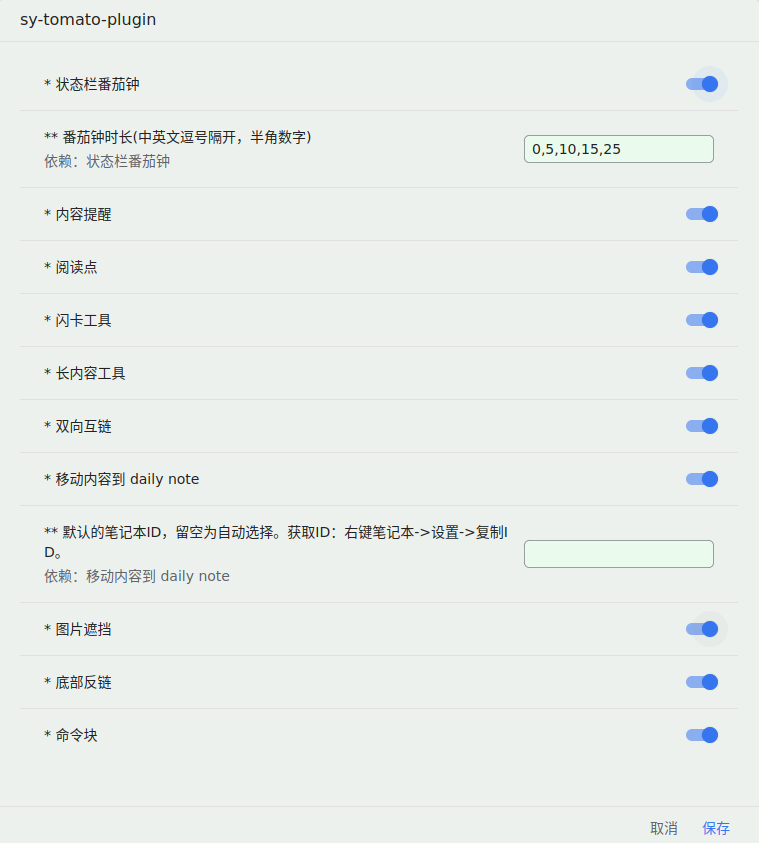
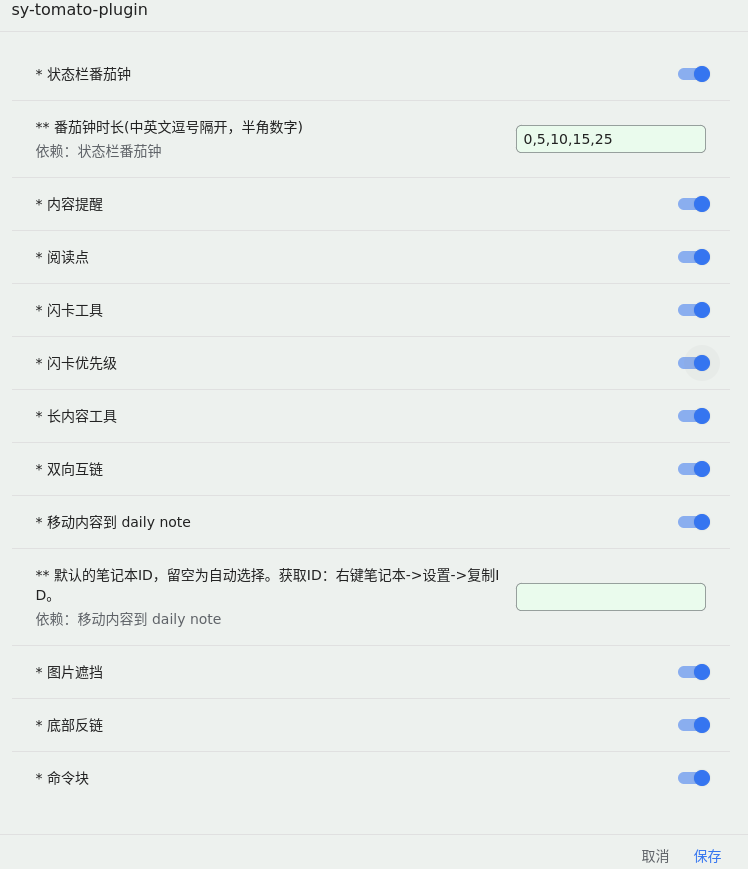
size

diff --git a/sy-tomato-plugin/README_zh_CN.md b/sy-tomato-plugin/README_zh_CN.md
@@ -10,7 +10,7 @@
 
 ![Alt text](assets/settings.png)
 
-<img src="assets/settingsDetail.png" alt="drawing" width="400"/>
+<img src="assets/settingsDetail.png" alt="drawing" width="600"/>
 
 > [反馈表单](https://awx9773btw.feishu.cn/share/base/form/shrcnO85H3V1iNvfEAc2JoQyXeh)
 
@@ -20,18 +20,32 @@
 
 *状态栏番茄钟*
 
-<img src="assets/statustomato.png" alt="drawing" width="400"/>
+<img src="assets/statustomato.png" alt="drawing" width="600"/>
 
 * **0**：取消倒计时
 * **5**：计时五分钟
 * ……
 * **25**：计时二十五分钟
 
-<img src="assets/tomatoTimeup.png" alt="drawing" width="400"/>
+<img src="assets/tomatoTimeup.png" alt="drawing" width="600"/>
 
 > 支持自定义时长。
 
 > 新本能查看剩余时间。
+
+## 闪卡优先级
+
+对闪卡设置优先级，级别高的优先复习。同级之间每次复习，都会打乱顺序。
+
+设置后，直接用`alt+0`复习即可。插件已在复习前，根据优先级对闪卡排序。
+
+优先级保存在闪卡的自定义属性`custom-card-priority`中。可手动调整。
+
+优先级范围 0 ~ 100，默认优先级为50，没设置过优先级的闪卡也默认为50.
+
+<img src="assets/cardPriorityMenu.png" alt="drawing" width="600"/>
+
+> 本功能默认关闭，请从配置中打开。
 
 ## 命令块
 
@@ -41,7 +55,7 @@
 
 将把左边的文档合并到右边：复制左边文档的内容、属性到右边，以及转移引用到右边。
 
-<img src="assets/mergeDocs.png" alt="drawing" width="400"/>
+<img src="assets/mergeDocs.png" alt="drawing" width="600"/>
 
 例如图中，`test1`的内容、属性被复制到`test2`，其他地方对`test1`的引用，将全部转移到`test2`，变成引用`test2`。
 
@@ -85,9 +99,9 @@
 
 快捷键：`Alt+/`
 
-<img src="assets/bilink.png" alt="drawing" width="400"/>
+<img src="assets/bilink.png" alt="drawing" width="600"/>
 
-<img src="assets/bilink-result.png" alt="drawing" width="400"/>
+<img src="assets/bilink-result.png" alt="drawing" width="600"/>
 
 > **提示** 可以多行选择，但需要使用快捷键：`Alt+/`。
 
@@ -97,19 +111,19 @@
 
 **光标定位好要选择的`内容块`**
 
-<img src="assets/cmdEntry.png" alt="drawing" width="400"/>
+<img src="assets/cmdEntry.png" alt="drawing" width="600"/>
 
 **使用右键菜单。也可以用快捷键 `Ctrl+3`。**
 
-<img src="assets/contentMenu.png" alt="drawing" width="400"/>
+<img src="assets/contentMenu.png" alt="drawing" width="600"/>
 
 **设置时间**
 
-<img src="assets/scheduleSetTime.png" alt="drawing" width="400"/>
+<img src="assets/scheduleSetTime.png" alt="drawing" width="600"/>
 
 *设置时间好，会自动加上一个时间tag。*
 
-<img src="assets/aftersettime.png" alt="drawing" width="400"/>
+<img src="assets/aftersettime.png" alt="drawing" width="600"/>
 
 *我们可以在tag面板查看已经计划中的提醒都有哪些。*
 
@@ -117,7 +131,7 @@
 
 **提醒**
 
-<img src="assets/remind.png" alt="drawing" width="400"/>
+<img src="assets/remind.png" alt="drawing" width="600"/>
 
 **删除时间tag**
 
@@ -129,11 +143,11 @@
 
 **光标定位好要选择的`内容块`，使用右键菜单，也可以直接 `Ctrl+2`。**
 
-<img src="assets/contentMenu.png" alt="drawing" width="400"/>
+<img src="assets/contentMenu.png" alt="drawing" width="600"/>
 
 **之后要查看`书签`可以，可以直接看`书签面板`。也可以点击右上角的 `阅读点` (ctrl+4) 图标，查看更加详细的信息。**
 
-<img src="assets/bookmark.png" alt="drawing" width="400"/>
+<img src="assets/bookmark.png" alt="drawing" width="600"/>
 
 > **注意** `阅读点` 图标的分组方式与书签面板的不一样。
 
@@ -145,7 +159,7 @@
 
 > 快捷键： ctrl+9
 
-<img src="assets/delCard1.png" alt="drawing" width="400"/>
+<img src="assets/delCard1.png" alt="drawing" width="600"/>
 
 ## 清理失效`闪卡`
 
@@ -153,7 +167,7 @@
 
 **打开命令面板，选择 `清理所有失效闪卡`**
 
-<img src="assets/cmd.png" alt="drawing" width="400"/>
+<img src="assets/cmd.png" alt="drawing" width="600"/>
 
 > **注意** 正在重建索引的时候，不要使用该功能。正在重建中的索引还不完善，插件依赖索引时会被误导，导致误删闪卡。
 
@@ -216,7 +230,7 @@ aacc3
 
 ```
 
-<img src="assets/cmd.png" alt="drawing" width="400"/>
+<img src="assets/cmd.png" alt="drawing" width="600"/>
 
 ### 复制操作
 
@@ -241,7 +255,7 @@ aacc3
 
 **或者使用右键菜单**
 
-<img src="assets/contentMenu.png" alt="drawing" width="400"/>
+<img src="assets/contentMenu.png" alt="drawing" width="600"/>
 
 ## 图片遮挡（闪卡图片挖空）
 
